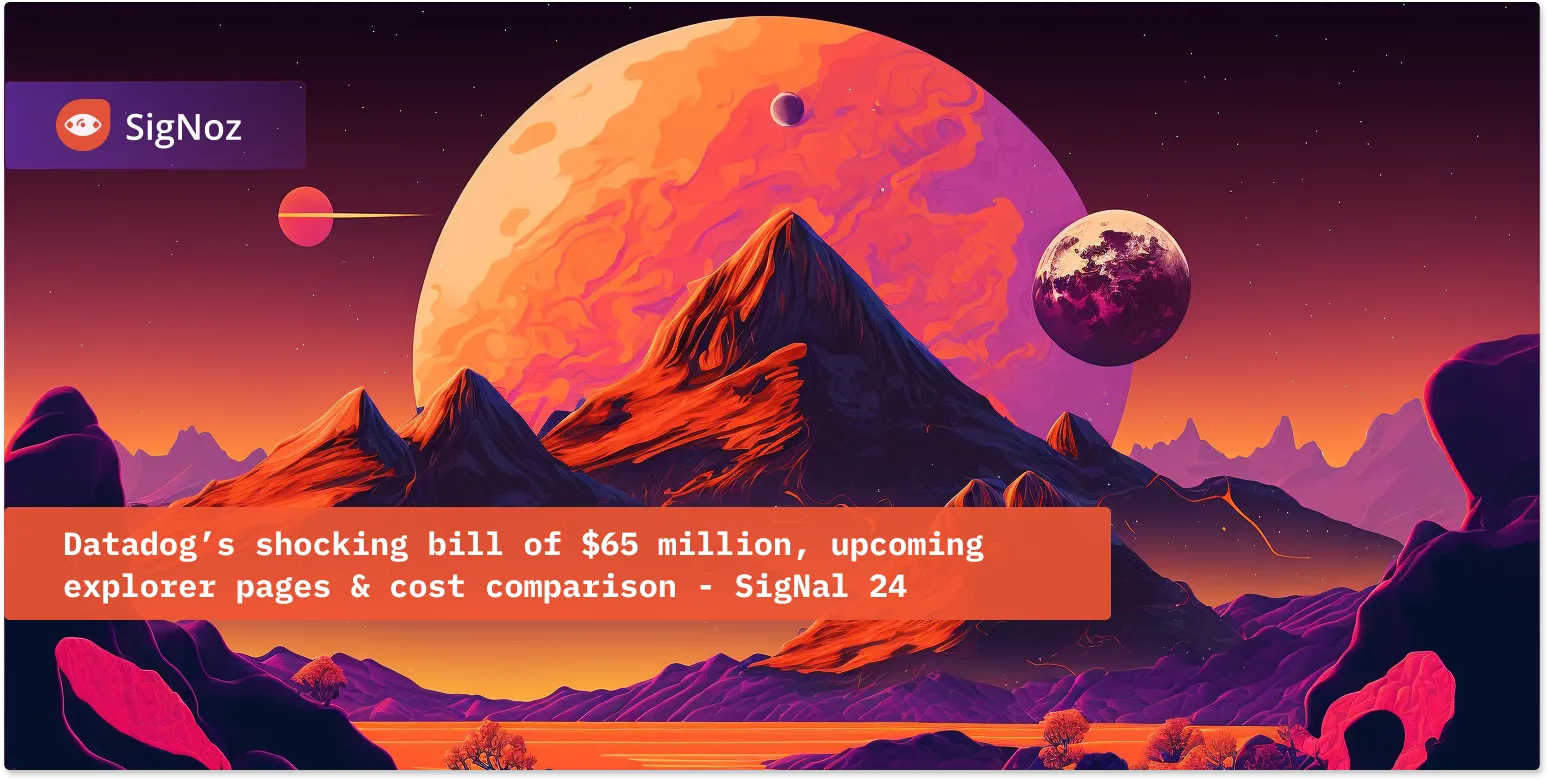
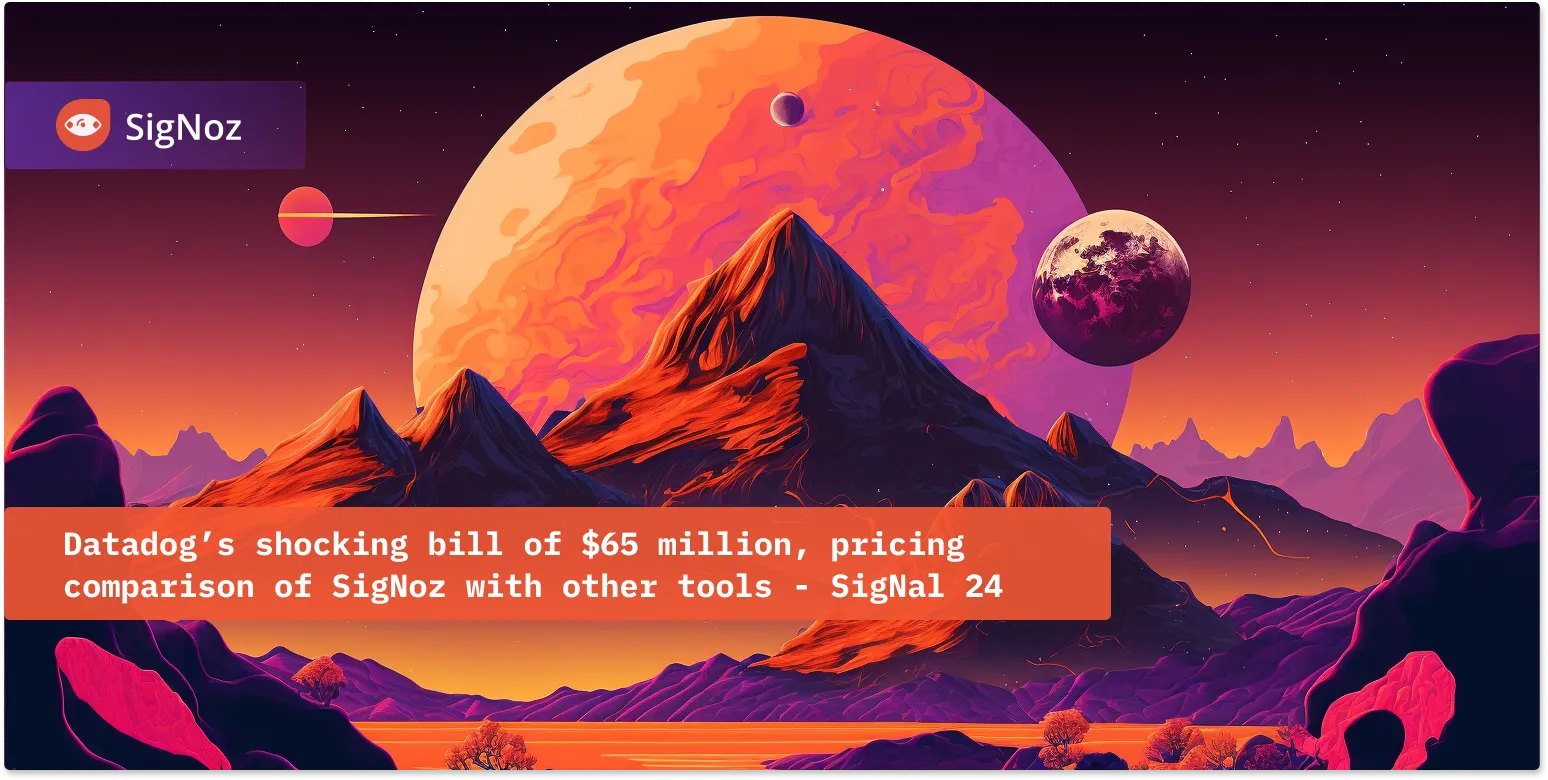
Updated title and cover pic (#913)

Changed region(s): [[0.031, 0.6769, 0.6512, 0.7692]]

diff --git a/blog/2023-05-11-signal-24.md b/blog/2023-05-11-signal-24.md
@@ -1,5 +1,5 @@
 ---
-title: Datadog’s shocking bill of $65 million, upcoming explorer pages & cost comparison - SigNal 24
+title: Datadog’s shocking bill of $65 million, pricing comparison of SigNoz with other tools - SigNal 24
 slug: community-update-24
 date: 2023-05-11
 tags: [Product Updates]
